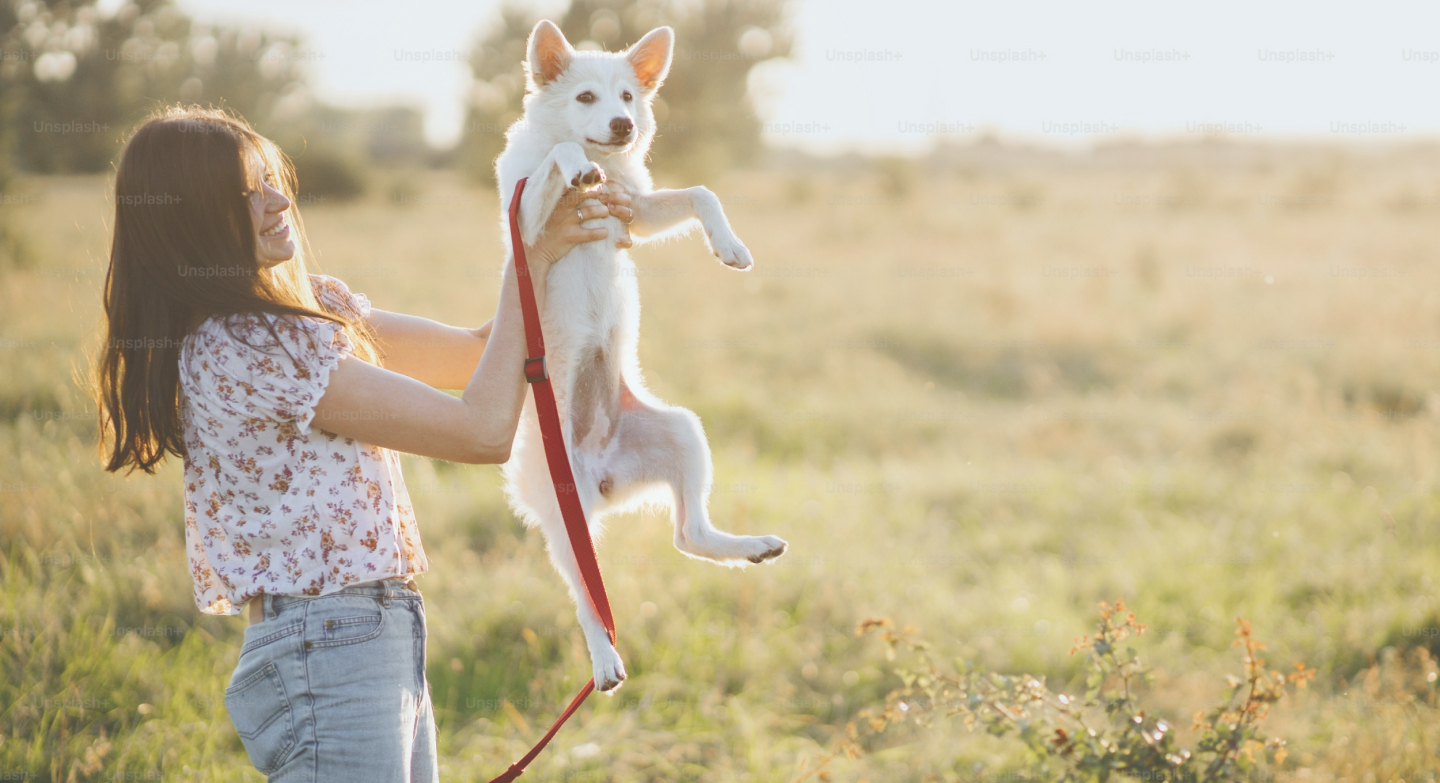
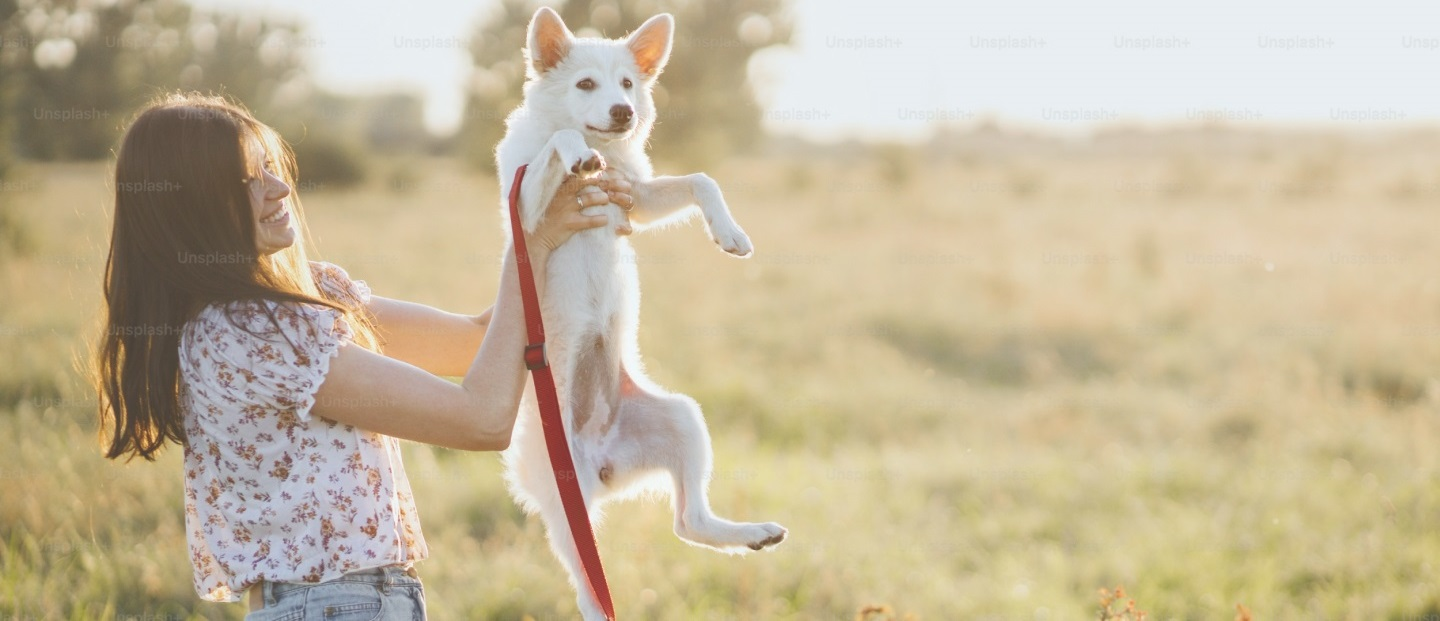
Update images and header

diff --git a/pages/apadrinar.html b/pages/apadrinar.html
@@ -24,7 +24,7 @@
 		<section>
 			<main>
 				<div class="banner">
-					<img src="../img/sponsor.jpg" alt="Snow" style="width:100%;">
+					<img src="../img/sponsor.jpg" alt="Snow" style="width:100%; height: auto;">
 					<h2 class="centered_title">Apadrina</h2>
 				</div>
 				<div class="main-container-form">

diff --git a/pages/adoptar.html b/pages/adoptar.html
@@ -24,7 +24,7 @@
 		<section>
 			<main>
 				<div class="banner">
-					<img src="../img/adopt.jpg" alt="Snow" style="width:100%;">
+					<img src="../img/adopt.jpg" alt="Snow" style="width:100%; height: auto;">
 					<h2 class="centered_title">Adopta</h2>
 				</div>
 				<div class="main-container-form">

diff --git a/pages/transitar.html b/pages/transitar.html
@@ -23,7 +23,7 @@
 	<section>
 		<main>
 			<div class="banner">
-				<img src="../img/transit.jpg" alt="Snow" style="width:100%;">
+				<img src="../img/transit.jpg" alt="Snow" style="width:100%; height: auto;">
 				<h2 class="centered_title">Transita</h2>
 			</div>
 			<div class="main-container-form">

diff --git a/styles/formulario.css b/styles/formulario.css
@@ -1,5 +1,5 @@
 .banner {
-    margin-top: 60px;
+    margin-top: 80px;
     width: 100%;
     position: relative;
 }
